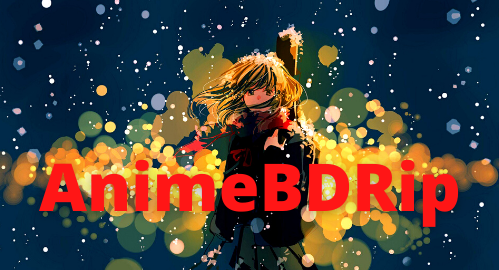
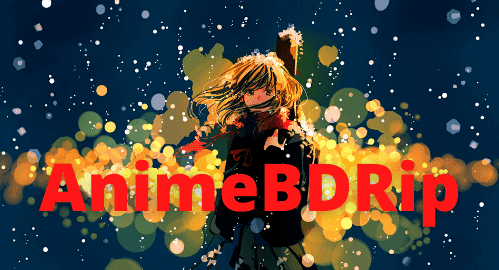
optimize las imagenes para que la carga de la pagina sea mas rapida

diff --git a/index.html b/index.html
@@ -73,7 +73,7 @@
 					</div>
 					<div class="card__img">
 						<figure class="card__img--figure">
-							<img src="images/images-Anime/ano-natsu-de-matteru/ano-natsu-de-matteru-01.jpg"
+							<img src="images/images-Anime/ano-natsu-de-matteru/ano-natsu-de-matteru-01_optimized.jpg"
 								alt="Ano natsu de matteru">
 						</figure>
 					</div>
@@ -89,7 +89,7 @@
 					</div>
 					<div class="card__img">
 						<figure class="card__img--figure">
-							<img src="images/images-Anime/another/another-01.jpg" alt="another">
+							<img src="images/images-Anime/another/another-01_optimized.jpg" alt="another">
 						</figure>
 					</div>
 					<div class="card__information">
@@ -104,7 +104,7 @@
 					</div>
 					<div class="card__img">
 						<figure class="card__img--figure">
-							<img src="images/images-Anime/btoom!/btoom!-01.jpg" alt="Btooom!">
+							<img src="images/images-Anime/btoom!/btoom!-01_optimized.jpg" alt="Btooom!">
 						</figure>
 					</div>
 					<div class="card__information">
@@ -119,7 +119,7 @@
 					</div>
 					<div class="card__img">
 						<figure class="card__img--figure">
-							<img src="images/images-Anime/deadman-wonderland/deadman-wonderland-01.jpg" alt="Deadman wonderland">
+							<img src="images/images-Anime/deadman-wonderland/deadman-wonderland-01_optimized.jpg" alt="Deadman wonderland">
 						</figure>
 					</div>
 					<div class="card__information">
@@ -134,7 +134,7 @@
 					</div>
 					<div class="card__img">
 						<figure class="card__img--figure">
-							<img src="images/images-Anime/gangsta/gangsta-01.jpg" alt="Gansta">
+							<img src="images/images-Anime/gangsta/gangsta-01_optimized.jpg" alt="Gansta">
 						</figure>
 					</div>
 					<div class="card__information">
@@ -149,7 +149,7 @@
 					</div>
 					<div class="card__img">
 						<figure class="card__img--figure">
-							<img src="images/images-Anime/golden-time/golden-time-01.jpg" alt="Golden time">
+							<img src="images/images-Anime/golden-time/golden-time-01_optimized.jpg" alt="Golden time">
 						</figure>
 					</div>
 					<div class="card__information">
@@ -164,7 +164,7 @@
 					</div>
 					<div class="card__img">
 						<figure class="card__img--figure">
-							<img src="images/images-Anime/inuyashiki/inuyashiki-01.jpg" alt="Inuyashiki">
+							<img src="images/images-Anime/inuyashiki/inuyashiki-01_optimized.jpg" alt="Inuyashiki">
 						</figure>
 					</div>
 					<div class="card__information">
@@ -179,7 +179,7 @@
 					</div>
 					<div class="card__img">
 						<figure class="card__img--figure">
-							<img src="images/images-Anime/kousetsu-no-kabaneri/kousetsu-no-kabaneri.jpg" alt="Kousetsu no kabaneri">
+							<img src="images/images-Anime/kousetsu-no-kabaneri/kousetsu-no-kabaneri_optimized.jpg" alt="Kousetsu no kabaneri">
 						</figure>
 					</div>
 					<div class="card__information">
@@ -194,7 +194,7 @@
 					</div>
 					<div class="card__img">
 						<figure class="card__img--figure">
-							<img src="images/images-Anime/one-punch-man/one-punch-man-01.jpg" alt="One punch man">
+							<img src="images/images-Anime/one-punch-man/one-punch-man-01_optimized.jpg" alt="One punch man">
 						</figure>
 					</div>
 					<div class="card__information">
@@ -209,7 +209,7 @@
 					</div>
 					<div class="card__img">
 						<figure class="card__img--figure">
-							<img src="images/images-Anime/ookami-shoujo-to-kuro-ouji/ookami-shoujo-to-kuro-ouji-01.jpg"
+							<img src="images/images-Anime/ookami-shoujo-to-kuro-ouji/ookami-shoujo-to-kuro-ouji-01_optimized.jpg"
 								alt="Ookami shoujo to kuro ouji">
 						</figure>
 					</div>
@@ -225,7 +225,7 @@
 					</div>
 					<div class="card__img">
 						<figure class="card__img--figure">
-							<img src="images/images-Anime/parasyte/parasyte-01.jpg" alt="Parasyte">
+							<img src="images/images-Anime/parasyte/parasyte-01_optimized.jpg" alt="Parasyte">
 						</figure>
 					</div>
 					<div class="card__information">
@@ -240,7 +240,7 @@
 					</div>
 					<div class="card__img">
 						<figure class="card__img--figure">
-							<img src="images/images-Anime/re-life/re-life-01.jpg" alt="Re-Life">
+							<img src="images/images-Anime/re-life/re-life-01_optimized.jpg" alt="Re-Life">
 						</figure>
 					</div>
 					<div class="card__information">
@@ -255,7 +255,7 @@
 					</div>
 					<div class="card__img">
 						<figure class="card__img--figure">
-							<img src="images/images-Anime/re-zero/re-zero-01.jpg" alt="Re-Zero">
+							<img src="images/images-Anime/re-zero/re-zero-01_optimized.jpg" alt="Re-Zero">
 						</figure>
 					</div>
 					<div class="card__information">
@@ -270,7 +270,7 @@
 					</div>
 					<div class="card__img">
 						<figure class="card__img--figure">
-							<img src="images/images-Anime/rokka-no-yuusha/rokka-no-yuusha-01.jpg" alt="Rokka no yuusha">
+							<img src="images/images-Anime/rokka-no-yuusha/rokka-no-yuusha-01_optimized.jpg" alt="Rokka no yuusha">
 						</figure>
 					</div>
 					<div class="card__information">
@@ -285,7 +285,7 @@
 					</div>
 					<div class="card__img">
 						<figure class="card__img--figure">
-							<img src="images/images-Anime/sakurasou-no-Pet-na-Kanojo/sakurasou-no-Pet-na-Kanojo-01.jpg"
+							<img src="images/images-Anime/sakurasou-no-Pet-na-Kanojo/sakurasou-no-pet-na-kanojo-01_optimized.png"
 								alt="sakurasou no Pet na Kanojo">
 						</figure>
 					</div>
@@ -301,7 +301,7 @@
 					</div>
 					<div class="card__img">
 						<figure class="card__img--figure">
-							<img src="images/images-Anime/subete-ga-F-ni-haru/subete-ga-F-ni-haru-01.jpg" alt="Subete ga F ni haru">
+							<img src="images/images-Anime/subete-ga-F-ni-haru/subete-ga-f-ni-haru-01_optimized.jpg" alt="Subete ga F ni haru">
 						</figure>
 					</div>
 					<div class="card__information">
@@ -316,7 +316,7 @@
 					</div>
 					<div class="card__img">
 						<figure class="card__img--figure">
-							<img src="images/images-Anime/youjo-senki/youjo-senki-01.jpg" alt="Youjo Senki">
+							<img src="images/images-Anime/youjo-senki/youjo-senki-01_optimized.jpg" alt="Youjo Senki">
 						</figure>
 					</div>
 					<div class="card__information">
